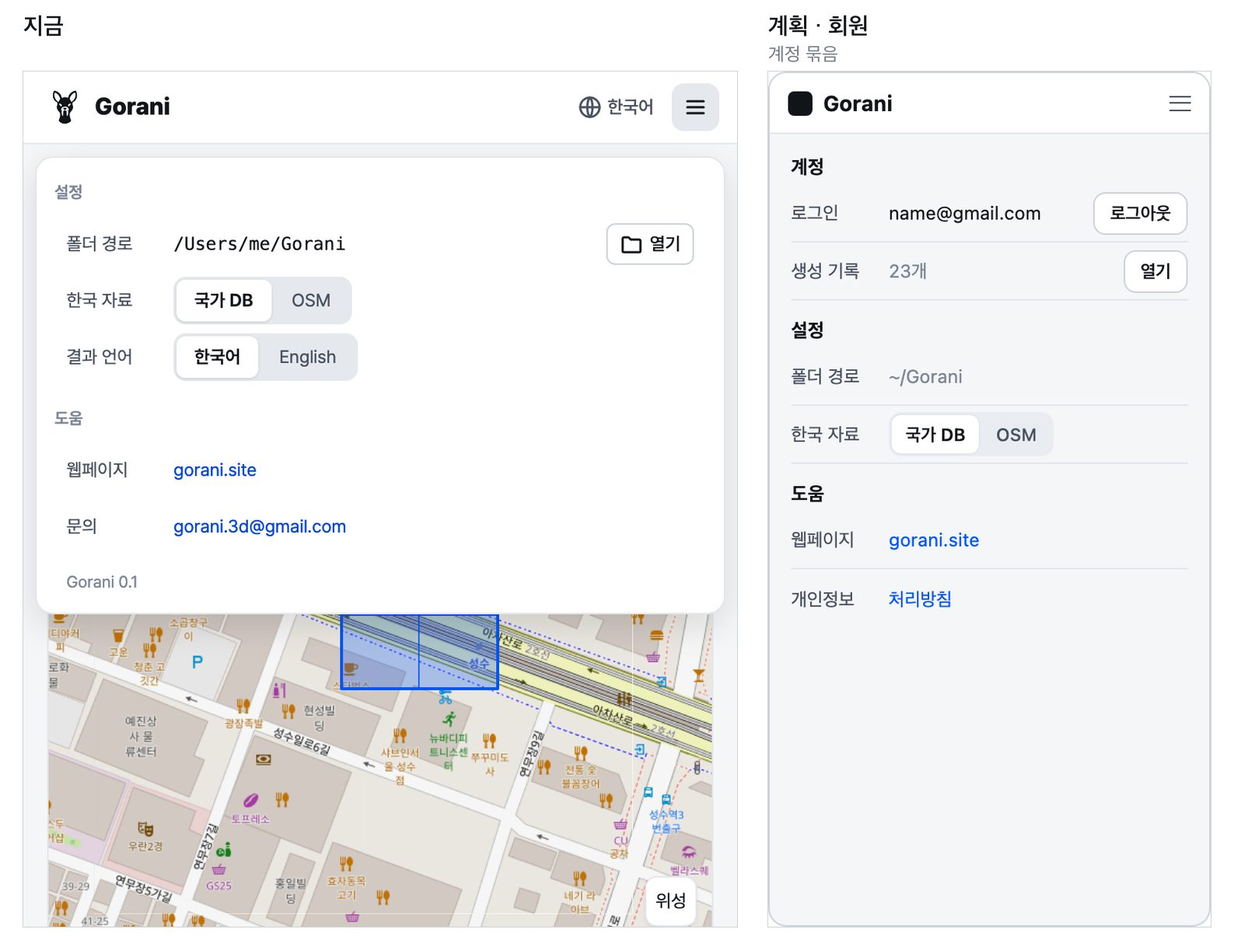
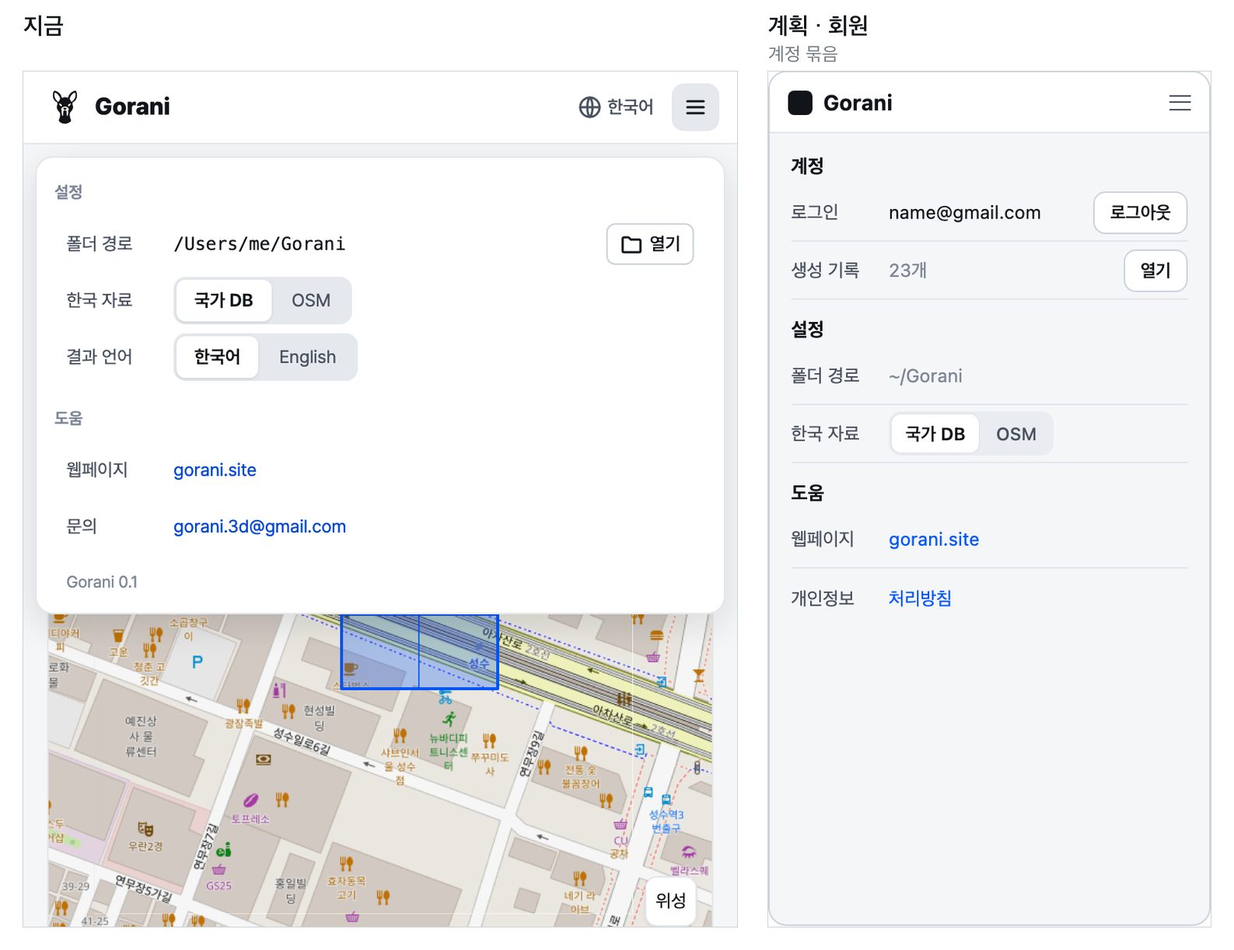
docs: 회원 계획 — 손님은 머리줄 오른쪽에 [로그인](모든 화면), 와이어프레임 v14·비교 그림

diff --git a/docs/preview/account/wireframe.html b/docs/preview/account/wireframe.html
@@ -170,6 +170,8 @@
   .pn .rec .mt { color: #7d8798; font-size: 11px; white-space: nowrap; }
   .pn .rech { display: flex; align-items: center; gap: 6px; min-height: 26px; color: #7d8798; font-size: 11px; font-weight: 600; }
   .pn .rech .sp { flex: 1; } .pn .rech a { color: #0057ff; text-decoration: none; }
+</style><style>
+  .pn .hd .login { font-size: 12px; font-weight: 600; color: #111418; padding: 3px 9px; border: 1px solid #cdd3db; border-radius: 7px; margin-right: 6px; }
 </style></head>
 <body>
 <svg width="0" height="0" style="position:absolute">
@@ -178,4 +180,4 @@
   <symbol id="cube" viewBox="0 0 16 16"><path d="M8 1.8l5.4 3v6.4L8 14.2l-5.4-3V4.8z M2.6 4.8L8 7.8l5.4-3 M8 7.8v6.4" fill="none" stroke="currentColor" stroke-width="1.4" stroke-linejoin="round"/></symbol>
 </svg>
 
-<h1>Gorani 회원·고급 디테일 — 와이어프레임 v13</h1><p class="lead">꾸밈과 안내 문구를 줄인 판(2026-11-15). v13: 로딩 화면 로그인 단추를 카드 아래로, 생성 기록은 회원만·PC 구분 없이. 기존 패널의 줄·단추 꼴만 쓰고, 표시는 자물쇠 하나, 로그인 창은 로그인만.</p><h2>A. 고급 디테일</h2><div class="flow"><div class="step"><p class="cap">A1 손님 · 지도 화면</p><div class="pn"><div class="hd"><span class="logo"></span><span class="wm">Gorani</span><span class="burger"></span></div><div class="map"><i></i></div><div class="tray" style="padding-top:4px"><div class="trow"><span class="lbl">대상지</span><span class="val">성수동2가 277-17 외 1</span><span class="area">1,234.5 m²</span></div><div class="trow"><span class="lbl">범위</span><span class="seg"><b>원</b><b class="on">사각형</b></span></div><div class="trow"><span class="lbl">한 변</span><span class="seg"><b>500</b><b class="on">1,000</b><b>2,000</b><b>직접</b></span></div><div class="sec"><span class="t">3D 설정</span><span class="s">원점(0,0), 지형 매끈, 디테일 기본</span><span class="chev"></span></div></div><div class="foot"><span class="mk"><svg width="13" height="13"><use href="#cube"/></svg>3D 모델 만들기</span></div></div><p class="note">지금 화면 그대로. 3D 설정 요약 끝에 '디테일 기본'.</p></div><div class="step"><p class="cap">A2 3D 설정 펼침</p><div class="pn"><div class="hd"><span class="logo"></span><span class="wm">Gorani</span><span class="burger"></span></div><div class="tray" style="padding-top:6px"><div class="trow"><span class="lbl">대상지</span><span class="val">성수동2가 277-17 외 1</span><span class="area">1,234.5 m²</span></div><div class="sec"><span class="t">3D 설정</span><span class="s">원점(0,0), 지형 매끈, 디테일 기본</span><span class="chev up"></span></div><div class="trow"><span class="lbl">좌표</span><span class="seg"><b class="on">원점(0,0)</b><b>GIS 좌표</b></span></div><div class="trow"><span class="lbl">지형</span><span class="seg"><b class="on">매끈하게</b><b>계단 1 m</b><b>2 m</b><b>5 m</b></span></div><div class="trow"><span class="lbl">도로</span><span class="chks"><span class="ck"><span class="box on"></span>연석</span><span class="ck"><span class="box on"></span>교량·고가</span></span></div><div class="trow"><span class="lbl">형상</span><span class="seg"><b class="on">Mesh</b><b>Brep</b></span></div><div class="trow"><span class="lbl">디테일</span><span class="seg"><b class="on">기본</b><b class="lkd"><svg width="10" height="10"><use href="#lock"/></svg>고급</b></span></div></div><div class="foot"><span class="mk"><svg width="13" height="13"><use href="#cube"/></svg>3D 모델 만들기</span></div></div><p class="note">맨 아래 디테일 [기본 | 고급]. 손님은 고급에 자물쇠만.</p></div><div class="step"><p class="cap">A3 고급을 누르면</p><div class="pn"><div class="hd"><span class="logo"></span><span class="wm">Gorani</span><span class="burger"></span></div><div class="tray" style="padding-top:6px"><div class="trow"><span class="lbl">대상지</span><span class="val">성수동2가 277-17 외 1</span><span class="area">1,234.5 m²</span></div><div class="sec"><span class="t">3D 설정</span><span class="s">원점(0,0), 지형 매끈, 디테일 기본</span><span class="chev up"></span></div><div class="trow"><span class="lbl">좌표</span><span class="seg"><b class="on">원점(0,0)</b><b>GIS 좌표</b></span></div><div class="trow"><span class="lbl">지형</span><span class="seg"><b class="on">매끈하게</b><b>계단 1 m</b><b>2 m</b><b>5 m</b></span></div><div class="trow"><span class="lbl">도로</span><span class="chks"><span class="ck"><span class="box on"></span>연석</span><span class="ck"><span class="box on"></span>교량·고가</span></span></div><div class="trow"><span class="lbl">형상</span><span class="seg"><b class="on">Mesh</b><b>Brep</b></span></div><div class="trow"><span class="lbl">디테일</span><span class="seg"><b class="on">기본</b><b class="lkd"><svg width="10" height="10"><use href="#lock"/></svg>고급</b></span></div></div><div class="foot"><span class="mk"><svg width="13" height="13"><use href="#cube"/></svg>3D 모델 만들기</span></div><div class="veil"><div class="dlg min"><span class="x">✕</span><h4>로그인</h4><div class="pbtn"><span class="gg"></span>구글로 로그인</div><div class="sbtn">로그인 없이 써 보기 (3회)</div></div></div></div><p class="note">로그인 창: 제목·구글 로그인·써 보기(남았을 때만).</p></div><div class="step"><p class="cap">A4 브라우저에서 로그인</p><div class="pn"><div class="hd"><span class="logo"></span><span class="wm">Gorani</span><span class="burger"></span></div><div class="tray" style="padding-top:6px"><div class="trow"><span class="lbl">대상지</span><span class="val">성수동2가 277-17 외 1</span><span class="area">1,234.5 m²</span></div><div class="sec"><span class="t">3D 설정</span><span class="s">원점(0,0), 지형 매끈, 디테일 기본</span><span class="chev up"></span></div><div class="trow"><span class="lbl">좌표</span><span class="seg"><b class="on">원점(0,0)</b><b>GIS 좌표</b></span></div><div class="trow"><span class="lbl">지형</span><span class="seg"><b class="on">매끈하게</b><b>계단 1 m</b><b>2 m</b><b>5 m</b></span></div><div class="trow"><span class="lbl">도로</span><span class="chks"><span class="ck"><span class="box on"></span>연석</span><span class="ck"><span class="box on"></span>교량·고가</span></span></div><div class="trow"><span class="lbl">형상</span><span class="seg"><b class="on">Mesh</b><b>Brep</b></span></div><div class="trow"><span class="lbl">디테일</span><span class="seg"><b class="on">기본</b><b class="lkd"><svg width="10" height="10"><use href="#lock"/></svg>고급</b></span></div></div><div class="foot"><span class="mk"><svg width="13" height="13"><use href="#cube"/></svg>3D 모델 만들기</span></div><div class="veil"><div class="dlg min" style="text-align:center"><div class="spin"></div><h4 style="margin:0 0 4px">브라우저에서 로그인 중</h4><div class="sbtn">취소</div></div></div></div><p class="note">로그인은 브라우저가 합니다.</p></div><div class="step"><p class="cap">A5 돌아오면</p><div class="pn"><div class="hd"><span class="logo"></span><span class="wm">Gorani</span><span class="burger"></span></div><div class="tray" style="padding-top:6px"><div class="trow"><span class="lbl">대상지</span><span class="val">성수동2가 277-17 외 1</span><span class="area">1,234.5 m²</span></div><div class="sec"><span class="t">3D 설정</span><span class="s">원점(0,0), 지형 매끈, 디테일 고급</span><span class="chev up"></span></div><div class="trow"><span class="lbl">좌표</span><span class="seg"><b class="on">원점(0,0)</b><b>GIS 좌표</b></span></div><div class="trow"><span class="lbl">지형</span><span class="seg"><b class="on">매끈하게</b><b>계단 1 m</b><b>2 m</b><b>5 m</b></span></div><div class="trow"><span class="lbl">도로</span><span class="chks"><span class="ck"><span class="box on"></span>연석</span><span class="ck"><span class="box on"></span>교량·고가</span></span></div><div class="trow"><span class="lbl">형상</span><span class="seg"><b class="on">Mesh</b><b>Brep</b></span></div><div class="trow"><span class="lbl">디테일</span><span class="seg"><b>기본</b><b class="on">고급</b></span></div><div class="trow"><span class="lbl">건물</span><span class="chks"><span class="ck"><span class="box on"></span>옥상 파라펫</span><span class="ck"><span class="box on"></span>층 구분선</span></span></div><div class="trow"><span class="lbl">구조물</span><span class="chks"><span class="ck"><span class="box on"></span>선로</span><span class="ck"><span class="box on"></span>옹벽</span><span class="ck"><span class="box"></span>담장</span></span></div><div class="trow"><span class="lbl">가로</span><span class="chks"><span class="ck"><span class="box on"></span>가로수</span><span class="ck"><span class="box on"></span>노면표시</span></span></div></div><div class="foot"><span class="mk"><svg width="13" height="13"><use href="#cube"/></svg>3D 모델 만들기</span></div><div class="toast">로그인했습니다</div></div><p class="note">누른 곳으로 — 고급이 눌리고 항목이 다른 줄과 같은 꼴로.</p></div></div><h2>B. 처음 만들기·로딩</h2><div class="flow"><div class="step"><p class="cap">B1 처음 [3D 모델 만들기] (한 번만)</p><div class="pn"><div class="hd"><span class="logo"></span><span class="wm">Gorani</span><span class="burger"></span></div><div class="map"><i></i></div><div class="tray" style="padding-top:4px"><div class="trow"><span class="lbl">대상지</span><span class="val">성수동2가 277-17 외 1</span><span class="area">1,234.5 m²</span></div><div class="trow"><span class="lbl">범위</span><span class="seg"><b>원</b><b class="on">사각형</b></span></div><div class="trow"><span class="lbl">한 변</span><span class="seg"><b>500</b><b class="on">1,000</b><b>2,000</b><b>직접</b></span></div><div class="sec"><span class="t">3D 설정</span><span class="s">원점(0,0), 지형 매끈, 디테일 기본</span><span class="chev"></span></div></div><div class="foot"><span class="mk"><svg width="13" height="13"><use href="#cube"/></svg>3D 모델 만들기</span></div><div class="veil"><div class="dlg min"><span class="x">✕</span><h4>로그인</h4><div class="pbtn"><span class="gg"></span>구글로 로그인</div><div class="sbtn">로그인 없이 만들기</div></div></div></div><p class="note">같은 로그인 창. 고르면 바로 만듭니다.</p></div><div class="step"><p class="cap">B2 로딩 · 손님이 기본으로</p><div class="pn"><div class="hd"><span class="logo"></span><span class="wm">Gorani</span><span class="burger"></span></div><div class="runcard"><div class="top"><h4>3D 모델 만드는 중</h4><span class="cancel"><i></i>취소</span></div><div class="meta">성수동2가 277-17 외 1, 1,234.5 m², 사각형 한 변 2,000 m · 기본</div><div class="trk"><div class="fl" style="width:50%"></div><span class="rn" style="left:calc((100% - 48px) * 0.5)"><svg xmlns="http://www.w3.org/2000/svg" width="48" height="36" viewBox="0 0 64 48"><g fill="none" stroke="currentColor" stroke-linecap="round" stroke-linejoin="round"><path d="M21.00 25.60L15.89 34.19" stroke-width="5"/><path d="M15.89 34.19L2.92 35.15" stroke-width="2.6"/><path d="M41.00 27.60L46.03 35.06" stroke-width="3.6"/><path d="M46.03 35.06L52.74 45.01" stroke-width="2.4"/><path d="M21.00 25.60L14.84 33.48" stroke-width="5"/><path d="M14.84 33.48L2.97 38.77" stroke-width="2.6"/><path d="M41.00 27.60L47.02 34.29" stroke-width="3.6"/><path d="M47.02 34.29L55.05 43.21" stroke-width="2.4"/></g><g fill="currentColor" transform="translate(0 1.60)"><path d="M13 21C13 14 20 11 27 13C33 15 39 17 44 19C49 21 49 29 43 30.5C35 32 26 31 19 29.5C15 28.5 13 25 13 21Z"/><path d="M40 21C43 15 47 11 51 9L56 13C52 17 48 23 46 29Z"/><path d="M49 7C53 4.5 58 6.5 62 11C63.5 13 62.5 15 60.5 15H54C50.5 15 48 11.5 49 7Z"/><path d="M51 8C49 3 45.5 0 42 0.5C42 4 45 8 49.5 11Z"/><path d="M14 17C12 14.5 11 12.5 11.5 11C13.5 12 15 14 16 16Z"/></g></svg></span></div><div class="pm"><span><b>50</b> %</span><span>0:14</span></div><ul class="ph"><li><span class="okk">✓</span>건물과 지형 불러오기<span class="det">건물 1,842동</span></li><li class="run"><span class="dot"></span>3D 모델 만들기</li><li class="pend"><span class="ring"></span>Rhino 파일에 넣기</li></ul><div class="rnote">Rhino 안에서 만들어 Rhino 화면이 잠깐씩 멈출 수 있습니다.</div></div><div class="below"><span class="btnw" style="margin:0">로그인하고 고급 디테일 쓰기</span></div><div class="logline">▸ 로그 자세히 보기 (1줄)</div></div><p class="note">카드는 그대로, 단추는 카드 아래 따로(로그 줄 위). 회원·고급일 때는 없습니다.</p></div><div class="step"><p class="cap">B3 생성 완료 — 지금과 같음</p><div class="pn"><div class="hd"><span class="logo"></span><span class="wm">Gorani</span><span class="burger"></span></div><div class="card2"><h4>3D 모델 생성 완료 <span class="m">0:08</span><span class="sp"></span><span class="btnw" style="margin:0">폴더 열기</span></h4><div class="m">성수동2가 277-17 외 1, 1,234.5 m²</div></div><div class="card2"><h4>2D 자료도 만들까요?<span class="sp"></span><span class="btnw" style="margin:0">2D 자료 만들기</span></h4><div class="opt2"><span>▢</span><span>베이스맵<small>Illustrator 레이어 도면 (.ai)</small></span></div><div class="opt2"><span>▦</span><span>다이어그램<small>현황도와 분석도 (.svg, .ai)</small></span></div><div class="opt2"><span>▤</span><span>조서<small>필지와 건축물 표 (엑셀 CSV)</small></span></div></div></div><p class="note">만들기가 끝나면 로딩 화면이 결과 화면으로 바뀌어 단추도 함께 사라집니다. 3D·2D 카드 사이에 아무것도 끼우지 않습니다.</p></div></div><h2>C. 생성 기록 — 회원만</h2><div class="flow"><div class="step"><p class="cap">C1 손님 · 지도(대상지 없음)</p><div class="pn"><div class="hd"><span class="logo"></span><span class="wm">Gorani</span><span class="burger"></span></div><div class="map"></div><div class="tray"><div class="rech">최근 결과<span class="sp"></span></div><div class="rec"><span class="nm">성수동2가 277-17 외 1</span><span class="mt">3D, 2D · 11-14</span></div><div class="rec"><span class="nm">을지로3가 구역</span><span class="mt">3D · 11-14</span></div><div class="rec"><span class="nm">Shibuya, Tokyo</span><span class="mt">3D · 11-10</span></div></div><div class="foot"><span class="mk" style="opacity:.45"><svg width="13" height="13"><use href="#cube"/></svg>3D 모델 만들기</span></div></div><p class="note">손님에게는 생성 기록이 없습니다. 이 PC의 '최근 결과'(지금 기능)는 그대로.</p></div><div class="step"><p class="cap">C2 회원 · 지도(대상지 없음)</p><div class="pn"><div class="hd"><span class="logo"></span><span class="wm">Gorani</span><span class="burger"></span></div><div class="map"></div><div class="tray"><div class="rech">최근 결과<span class="sp"></span><a>생성 기록 ›</a></div><div class="rec"><span class="nm">성수동2가 277-17 외 1</span><span class="mt">3D, 2D · 11-14</span></div><div class="rec"><span class="nm">을지로3가 구역</span><span class="mt">3D · 11-14</span></div><div class="rec"><span class="nm">Shibuya, Tokyo</span><span class="mt">3D · 11-10</span></div></div><div class="foot"><span class="mk" style="opacity:.45"><svg width="13" height="13"><use href="#cube"/></svg>3D 모델 만들기</span></div></div><p class="note">회원에게만 '생성 기록 ›'.</p></div><div class="step"><p class="cap">C3 회원 · 생성 기록</p><div class="pn"><div class="hd"><span class="logo"></span><span class="wm">Gorani</span><span class="burger"></span></div><div class="scr"><span class="back">← 지도로</span><span class="ttl">생성 기록</span></div><div class="search">⌕ 대상지 이름 찾기</div><div class="segw"><span class="seg"><b class="on">전체</b><b>★</b></span></div><div class="grpd">오늘</div><div class="hrow"><span class="th"><i></i></span><span class="tx"><div class="nm">성수동2가 277-17 외 1</div><div class="mt">15:02 · 사각형 1 km · 고급</div></span></div><div class="hrow"><span class="th"><i></i></span><span class="tx"><div class="nm">을지로3가 구역</div><div class="mt">11:40 · 사각형 2 km · 기본</div></span></div><div class="grpd">이번 주</div><div class="hrow"><span class="th"><i></i></span><span class="tx"><div class="nm">연남동 239-5</div><div class="mt">11-09 · 원 500 m · 고급</div></span></div><div class="hrow"><span class="th"><i></i></span><span class="tx"><div class="nm">Shibuya, Tokyo</div><div class="mt">11-10 · 사각형 1 km · 기본</div></span></div></div><p class="note">아이디 하나에 모든 PC 기록을 합쳐 보여 줍니다(PC 표시 없음). 이 PC에 파일이 있으면 누를 때 결과 화면, 없으면 같은 설정으로 지도에.</p></div></div><h2>D. 메뉴</h2><div class="flow"><div class="step"><p class="cap">D1 회원 · 더보기 메뉴</p><div class="pn"><div class="hd"><span class="logo"></span><span class="wm">Gorani</span><span class="burger"></span></div><div class="tray" style="padding-top:2px"><h5>계정</h5><div class="mrow2"><span class="k">로그인</span><span class="v">name@gmail.com</span><span class="btnw" style="margin:0">로그아웃</span></div><div class="mrow2"><span class="k">생성 기록</span><span class="v" style="color:#7d8798">23개</span><span class="btnw" style="margin:0">열기</span></div><h5>설정</h5><div class="mrow2"><span class="k">폴더 경로</span><span class="v" style="color:#7d8798">~/Gorani</span></div><div class="mrow2"><span class="k">한국 자료</span><span class="seg"><b class="on">국가 DB</b><b>OSM</b></span></div><h5>도움</h5><div class="mrow2"><span class="k">웹페이지</span><span class="v" style="color:#0057ff">gorani.site</span></div><div class="mrow2" style="border:0"><span class="k">개인정보</span><span class="v" style="color:#0057ff">처리방침</span></div></div></div><p class="note">손님은 같은 줄에 [구글로 로그인].</p></div></div></body></html>
+<h1>Gorani 회원·고급 디테일 — 와이어프레임 v14</h1><p class="lead">꾸밈과 안내 문구를 줄인 판(2026-11-15). v13: 로딩 화면 로그인 단추를 카드 아래로, 생성 기록은 회원만·PC 구분 없이. v14: 손님은 머리줄 오른쪽에 [로그인](모든 화면). 기존 패널의 줄·단추 꼴만 쓰고, 표시는 자물쇠 하나, 로그인 창은 로그인만.</p><h2>A. 고급 디테일</h2><div class="flow"><div class="step"><p class="cap">A1 손님 · 지도 화면</p><div class="pn"><div class="hd"><span class="logo"></span><span class="wm">Gorani</span><span class="login">로그인</span><span class="burger"></span></div><div class="map"><i></i></div><div class="tray" style="padding-top:4px"><div class="trow"><span class="lbl">대상지</span><span class="val">성수동2가 277-17 외 1</span><span class="area">1,234.5 m²</span></div><div class="trow"><span class="lbl">범위</span><span class="seg"><b>원</b><b class="on">사각형</b></span></div><div class="trow"><span class="lbl">한 변</span><span class="seg"><b>500</b><b class="on">1,000</b><b>2,000</b><b>직접</b></span></div><div class="sec"><span class="t">3D 설정</span><span class="s">원점(0,0), 지형 매끈, 디테일 기본</span><span class="chev"></span></div></div><div class="foot"><span class="mk"><svg width="13" height="13"><use href="#cube"/></svg>3D 모델 만들기</span></div></div><p class="note">머리줄 오른쪽 [로그인](손님만, 모든 화면). 3D 설정 요약 끝에 '디테일 기본'.</p></div><div class="step"><p class="cap">A2 3D 설정 펼침</p><div class="pn"><div class="hd"><span class="logo"></span><span class="wm">Gorani</span><span class="login">로그인</span><span class="burger"></span></div><div class="tray" style="padding-top:6px"><div class="trow"><span class="lbl">대상지</span><span class="val">성수동2가 277-17 외 1</span><span class="area">1,234.5 m²</span></div><div class="sec"><span class="t">3D 설정</span><span class="s">원점(0,0), 지형 매끈, 디테일 기본</span><span class="chev up"></span></div><div class="trow"><span class="lbl">좌표</span><span class="seg"><b class="on">원점(0,0)</b><b>GIS 좌표</b></span></div><div class="trow"><span class="lbl">지형</span><span class="seg"><b class="on">매끈하게</b><b>계단 1 m</b><b>2 m</b><b>5 m</b></span></div><div class="trow"><span class="lbl">도로</span><span class="chks"><span class="ck"><span class="box on"></span>연석</span><span class="ck"><span class="box on"></span>교량·고가</span></span></div><div class="trow"><span class="lbl">형상</span><span class="seg"><b class="on">Mesh</b><b>Brep</b></span></div><div class="trow"><span class="lbl">디테일</span><span class="seg"><b class="on">기본</b><b class="lkd"><svg width="10" height="10"><use href="#lock"/></svg>고급</b></span></div></div><div class="foot"><span class="mk"><svg width="13" height="13"><use href="#cube"/></svg>3D 모델 만들기</span></div></div><p class="note">맨 아래 디테일 [기본 | 고급]. 손님은 고급에 자물쇠만.</p></div><div class="step"><p class="cap">A3 고급을 누르면</p><div class="pn"><div class="hd"><span class="logo"></span><span class="wm">Gorani</span><span class="login">로그인</span><span class="burger"></span></div><div class="tray" style="padding-top:6px"><div class="trow"><span class="lbl">대상지</span><span class="val">성수동2가 277-17 외 1</span><span class="area">1,234.5 m²</span></div><div class="sec"><span class="t">3D 설정</span><span class="s">원점(0,0), 지형 매끈, 디테일 기본</span><span class="chev up"></span></div><div class="trow"><span class="lbl">좌표</span><span class="seg"><b class="on">원점(0,0)</b><b>GIS 좌표</b></span></div><div class="trow"><span class="lbl">지형</span><span class="seg"><b class="on">매끈하게</b><b>계단 1 m</b><b>2 m</b><b>5 m</b></span></div><div class="trow"><span class="lbl">도로</span><span class="chks"><span class="ck"><span class="box on"></span>연석</span><span class="ck"><span class="box on"></span>교량·고가</span></span></div><div class="trow"><span class="lbl">형상</span><span class="seg"><b class="on">Mesh</b><b>Brep</b></span></div><div class="trow"><span class="lbl">디테일</span><span class="seg"><b class="on">기본</b><b class="lkd"><svg width="10" height="10"><use href="#lock"/></svg>고급</b></span></div></div><div class="foot"><span class="mk"><svg width="13" height="13"><use href="#cube"/></svg>3D 모델 만들기</span></div><div class="veil"><div class="dlg min"><span class="x">✕</span><h4>로그인</h4><div class="pbtn"><span class="gg"></span>구글로 로그인</div><div class="sbtn">로그인 없이 써 보기 (3회)</div></div></div></div><p class="note">로그인 창: 제목·구글 로그인·써 보기(남았을 때만).</p></div><div class="step"><p class="cap">A4 브라우저에서 로그인</p><div class="pn"><div class="hd"><span class="logo"></span><span class="wm">Gorani</span><span class="login">로그인</span><span class="burger"></span></div><div class="tray" style="padding-top:6px"><div class="trow"><span class="lbl">대상지</span><span class="val">성수동2가 277-17 외 1</span><span class="area">1,234.5 m²</span></div><div class="sec"><span class="t">3D 설정</span><span class="s">원점(0,0), 지형 매끈, 디테일 기본</span><span class="chev up"></span></div><div class="trow"><span class="lbl">좌표</span><span class="seg"><b class="on">원점(0,0)</b><b>GIS 좌표</b></span></div><div class="trow"><span class="lbl">지형</span><span class="seg"><b class="on">매끈하게</b><b>계단 1 m</b><b>2 m</b><b>5 m</b></span></div><div class="trow"><span class="lbl">도로</span><span class="chks"><span class="ck"><span class="box on"></span>연석</span><span class="ck"><span class="box on"></span>교량·고가</span></span></div><div class="trow"><span class="lbl">형상</span><span class="seg"><b class="on">Mesh</b><b>Brep</b></span></div><div class="trow"><span class="lbl">디테일</span><span class="seg"><b class="on">기본</b><b class="lkd"><svg width="10" height="10"><use href="#lock"/></svg>고급</b></span></div></div><div class="foot"><span class="mk"><svg width="13" height="13"><use href="#cube"/></svg>3D 모델 만들기</span></div><div class="veil"><div class="dlg min" style="text-align:center"><div class="spin"></div><h4 style="margin:0 0 4px">브라우저에서 로그인 중</h4><div class="sbtn">취소</div></div></div></div><p class="note">로그인은 브라우저가 합니다.</p></div><div class="step"><p class="cap">A5 돌아오면</p><div class="pn"><div class="hd"><span class="logo"></span><span class="wm">Gorani</span><span class="burger"></span></div><div class="tray" style="padding-top:6px"><div class="trow"><span class="lbl">대상지</span><span class="val">성수동2가 277-17 외 1</span><span class="area">1,234.5 m²</span></div><div class="sec"><span class="t">3D 설정</span><span class="s">원점(0,0), 지형 매끈, 디테일 고급</span><span class="chev up"></span></div><div class="trow"><span class="lbl">좌표</span><span class="seg"><b class="on">원점(0,0)</b><b>GIS 좌표</b></span></div><div class="trow"><span class="lbl">지형</span><span class="seg"><b class="on">매끈하게</b><b>계단 1 m</b><b>2 m</b><b>5 m</b></span></div><div class="trow"><span class="lbl">도로</span><span class="chks"><span class="ck"><span class="box on"></span>연석</span><span class="ck"><span class="box on"></span>교량·고가</span></span></div><div class="trow"><span class="lbl">형상</span><span class="seg"><b class="on">Mesh</b><b>Brep</b></span></div><div class="trow"><span class="lbl">디테일</span><span class="seg"><b>기본</b><b class="on">고급</b></span></div><div class="trow"><span class="lbl">건물</span><span class="chks"><span class="ck"><span class="box on"></span>옥상 파라펫</span><span class="ck"><span class="box on"></span>층 구분선</span></span></div><div class="trow"><span class="lbl">구조물</span><span class="chks"><span class="ck"><span class="box on"></span>선로</span><span class="ck"><span class="box on"></span>옹벽</span><span class="ck"><span class="box"></span>담장</span></span></div><div class="trow"><span class="lbl">가로</span><span class="chks"><span class="ck"><span class="box on"></span>가로수</span><span class="ck"><span class="box on"></span>노면표시</span></span></div></div><div class="foot"><span class="mk"><svg width="13" height="13"><use href="#cube"/></svg>3D 모델 만들기</span></div><div class="toast">로그인했습니다</div></div><p class="note">누른 곳으로 — 고급이 눌리고 항목이 다른 줄과 같은 꼴로.</p></div></div><h2>B. 처음 만들기·로딩</h2><div class="flow"><div class="step"><p class="cap">B1 처음 [3D 모델 만들기] (한 번만)</p><div class="pn"><div class="hd"><span class="logo"></span><span class="wm">Gorani</span><span class="login">로그인</span><span class="burger"></span></div><div class="map"><i></i></div><div class="tray" style="padding-top:4px"><div class="trow"><span class="lbl">대상지</span><span class="val">성수동2가 277-17 외 1</span><span class="area">1,234.5 m²</span></div><div class="trow"><span class="lbl">범위</span><span class="seg"><b>원</b><b class="on">사각형</b></span></div><div class="trow"><span class="lbl">한 변</span><span class="seg"><b>500</b><b class="on">1,000</b><b>2,000</b><b>직접</b></span></div><div class="sec"><span class="t">3D 설정</span><span class="s">원점(0,0), 지형 매끈, 디테일 기본</span><span class="chev"></span></div></div><div class="foot"><span class="mk"><svg width="13" height="13"><use href="#cube"/></svg>3D 모델 만들기</span></div><div class="veil"><div class="dlg min"><span class="x">✕</span><h4>로그인</h4><div class="pbtn"><span class="gg"></span>구글로 로그인</div><div class="sbtn">로그인 없이 만들기</div></div></div></div><p class="note">같은 로그인 창. 고르면 바로 만듭니다.</p></div><div class="step"><p class="cap">B2 로딩 · 손님이 기본으로</p><div class="pn"><div class="hd"><span class="logo"></span><span class="wm">Gorani</span><span class="login">로그인</span><span class="burger"></span></div><div class="runcard"><div class="top"><h4>3D 모델 만드는 중</h4><span class="cancel"><i></i>취소</span></div><div class="meta">성수동2가 277-17 외 1, 1,234.5 m², 사각형 한 변 2,000 m · 기본</div><div class="trk"><div class="fl" style="width:50%"></div><span class="rn" style="left:calc((100% - 48px) * 0.5)"><svg xmlns="http://www.w3.org/2000/svg" width="48" height="36" viewBox="0 0 64 48"><g fill="none" stroke="currentColor" stroke-linecap="round" stroke-linejoin="round"><path d="M21.00 25.60L15.89 34.19" stroke-width="5"/><path d="M15.89 34.19L2.92 35.15" stroke-width="2.6"/><path d="M41.00 27.60L46.03 35.06" stroke-width="3.6"/><path d="M46.03 35.06L52.74 45.01" stroke-width="2.4"/><path d="M21.00 25.60L14.84 33.48" stroke-width="5"/><path d="M14.84 33.48L2.97 38.77" stroke-width="2.6"/><path d="M41.00 27.60L47.02 34.29" stroke-width="3.6"/><path d="M47.02 34.29L55.05 43.21" stroke-width="2.4"/></g><g fill="currentColor" transform="translate(0 1.60)"><path d="M13 21C13 14 20 11 27 13C33 15 39 17 44 19C49 21 49 29 43 30.5C35 32 26 31 19 29.5C15 28.5 13 25 13 21Z"/><path d="M40 21C43 15 47 11 51 9L56 13C52 17 48 23 46 29Z"/><path d="M49 7C53 4.5 58 6.5 62 11C63.5 13 62.5 15 60.5 15H54C50.5 15 48 11.5 49 7Z"/><path d="M51 8C49 3 45.5 0 42 0.5C42 4 45 8 49.5 11Z"/><path d="M14 17C12 14.5 11 12.5 11.5 11C13.5 12 15 14 16 16Z"/></g></svg></span></div><div class="pm"><span><b>50</b> %</span><span>0:14</span></div><ul class="ph"><li><span class="okk">✓</span>건물과 지형 불러오기<span class="det">건물 1,842동</span></li><li class="run"><span class="dot"></span>3D 모델 만들기</li><li class="pend"><span class="ring"></span>Rhino 파일에 넣기</li></ul><div class="rnote">Rhino 안에서 만들어 Rhino 화면이 잠깐씩 멈출 수 있습니다.</div></div><div class="below"><span class="btnw" style="margin:0">로그인하고 고급 디테일 쓰기</span></div><div class="logline">▸ 로그 자세히 보기 (1줄)</div></div><p class="note">카드는 그대로, 단추는 카드 아래 따로(로그 줄 위). 회원·고급일 때는 없습니다.</p></div><div class="step"><p class="cap">B3 생성 완료 — 지금과 같음</p><div class="pn"><div class="hd"><span class="logo"></span><span class="wm">Gorani</span><span class="login">로그인</span><span class="burger"></span></div><div class="card2"><h4>3D 모델 생성 완료 <span class="m">0:08</span><span class="sp"></span><span class="btnw" style="margin:0">폴더 열기</span></h4><div class="m">성수동2가 277-17 외 1, 1,234.5 m²</div></div><div class="card2"><h4>2D 자료도 만들까요?<span class="sp"></span><span class="btnw" style="margin:0">2D 자료 만들기</span></h4><div class="opt2"><span>▢</span><span>베이스맵<small>Illustrator 레이어 도면 (.ai)</small></span></div><div class="opt2"><span>▦</span><span>다이어그램<small>현황도와 분석도 (.svg, .ai)</small></span></div><div class="opt2"><span>▤</span><span>조서<small>필지와 건축물 표 (엑셀 CSV)</small></span></div></div></div><p class="note">만들기가 끝나면 로딩 화면이 결과 화면으로 바뀌어 카드 아래 단추도 사라집니다. 3D·2D 카드 사이에 아무것도 끼우지 않습니다. 머리줄 [로그인]은 손님이면 모든 화면에.</p></div></div><h2>C. 생성 기록 — 회원만</h2><div class="flow"><div class="step"><p class="cap">C1 손님 · 지도(대상지 없음)</p><div class="pn"><div class="hd"><span class="logo"></span><span class="wm">Gorani</span><span class="login">로그인</span><span class="burger"></span></div><div class="map"></div><div class="tray"><div class="rech">최근 결과<span class="sp"></span></div><div class="rec"><span class="nm">성수동2가 277-17 외 1</span><span class="mt">3D, 2D · 11-14</span></div><div class="rec"><span class="nm">을지로3가 구역</span><span class="mt">3D · 11-14</span></div><div class="rec"><span class="nm">Shibuya, Tokyo</span><span class="mt">3D · 11-10</span></div></div><div class="foot"><span class="mk" style="opacity:.45"><svg width="13" height="13"><use href="#cube"/></svg>3D 모델 만들기</span></div></div><p class="note">손님에게는 생성 기록이 없습니다. 이 PC의 '최근 결과'(지금 기능)는 그대로.</p></div><div class="step"><p class="cap">C2 회원 · 지도(대상지 없음)</p><div class="pn"><div class="hd"><span class="logo"></span><span class="wm">Gorani</span><span class="burger"></span></div><div class="map"></div><div class="tray"><div class="rech">최근 결과<span class="sp"></span><a>생성 기록 ›</a></div><div class="rec"><span class="nm">성수동2가 277-17 외 1</span><span class="mt">3D, 2D · 11-14</span></div><div class="rec"><span class="nm">을지로3가 구역</span><span class="mt">3D · 11-14</span></div><div class="rec"><span class="nm">Shibuya, Tokyo</span><span class="mt">3D · 11-10</span></div></div><div class="foot"><span class="mk" style="opacity:.45"><svg width="13" height="13"><use href="#cube"/></svg>3D 모델 만들기</span></div></div><p class="note">회원에게만 '생성 기록 ›'.</p></div><div class="step"><p class="cap">C3 회원 · 생성 기록</p><div class="pn"><div class="hd"><span class="logo"></span><span class="wm">Gorani</span><span class="burger"></span></div><div class="scr"><span class="back">← 지도로</span><span class="ttl">생성 기록</span></div><div class="search">⌕ 대상지 이름 찾기</div><div class="segw"><span class="seg"><b class="on">전체</b><b>★</b></span></div><div class="grpd">오늘</div><div class="hrow"><span class="th"><i></i></span><span class="tx"><div class="nm">성수동2가 277-17 외 1</div><div class="mt">15:02 · 사각형 1 km · 고급</div></span></div><div class="hrow"><span class="th"><i></i></span><span class="tx"><div class="nm">을지로3가 구역</div><div class="mt">11:40 · 사각형 2 km · 기본</div></span></div><div class="grpd">이번 주</div><div class="hrow"><span class="th"><i></i></span><span class="tx"><div class="nm">연남동 239-5</div><div class="mt">11-09 · 원 500 m · 고급</div></span></div><div class="hrow"><span class="th"><i></i></span><span class="tx"><div class="nm">Shibuya, Tokyo</div><div class="mt">11-10 · 사각형 1 km · 기본</div></span></div></div><p class="note">아이디 하나에 모든 PC 기록을 합쳐 보여 줍니다(PC 표시 없음). 이 PC에 파일이 있으면 누를 때 결과 화면, 없으면 같은 설정으로 지도에.</p></div></div><h2>D. 메뉴</h2><div class="flow"><div class="step"><p class="cap">D1 회원 · 더보기 메뉴</p><div class="pn"><div class="hd"><span class="logo"></span><span class="wm">Gorani</span><span class="burger"></span></div><div class="tray" style="padding-top:2px"><h5>계정</h5><div class="mrow2"><span class="k">로그인</span><span class="v">name@gmail.com</span><span class="btnw" style="margin:0">로그아웃</span></div><div class="mrow2"><span class="k">생성 기록</span><span class="v" style="color:#7d8798">23개</span><span class="btnw" style="margin:0">열기</span></div><h5>설정</h5><div class="mrow2"><span class="k">폴더 경로</span><span class="v" style="color:#7d8798">~/Gorani</span></div><div class="mrow2"><span class="k">한국 자료</span><span class="seg"><b class="on">국가 DB</b><b>OSM</b></span></div><h5>도움</h5><div class="mrow2"><span class="k">웹페이지</span><span class="v" style="color:#0057ff">gorani.site</span></div><div class="mrow2" style="border:0"><span class="k">개인정보</span><span class="v" style="color:#0057ff">처리방침</span></div></div></div><p class="note">손님은 같은 줄에 [구글로 로그인].</p></div></div></body></html>
